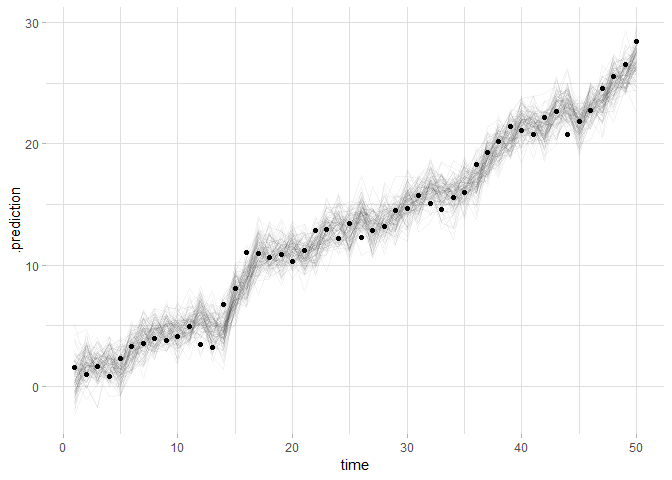
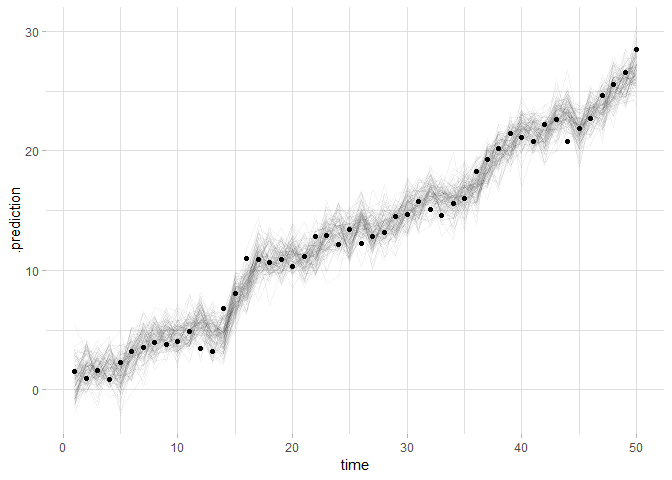
add bsts to arima example

diff --git a/arima.md b/arima.md
@@ -1,5 +1,11 @@
-Uncertainty examples with ARIMA in brms
+Uncertainty examples with ARIMA in brms and bsts
 ================
+
+## Introduction
+
+This example shows some spaghetti plots and hypothetical outcome plots
+(HOPs) of uncertainty for time series models, first using the `brms`
+package then using the `bsts` package.
 
 ## Setup
 
@@ -10,6 +16,7 @@ library(rstan)
 library(modelr)
 library(tidybayes)
 library(brms)
+library(bsts)
 library(gganimate)
 
 theme_set(theme_light() + theme(
@@ -43,7 +50,9 @@ t_drift_df %>%
 
 ![](arima_files/figure-gfm/unnamed-chunk-2-1.png)<!-- -->
 
-## Model
+## Using `brms`
+
+### Model
 
 A simple autoregressive model in brms:
 
@@ -55,7 +64,7 @@ m <- brm(y ~ 1 + time, autocor = cor_ar(~ 1, p = 1), data = t_drift_df)
 
     ## Start sampling
 
-## Spaghetti plot
+### Spaghetti plot
 
 We’ll start with a spaghetti plot:
 
@@ -73,7 +82,7 @@ We can add forecasting:
 
 ``` r
 t_drift_df %>%
-  bind_rows(data_frame(time = (max(.$time) + 1):(max(.$time + 1) + 10))) %>%
+  bind_rows(data_frame(time = max(.$time + 1):max(.$time + 10))) %>%
   add_predicted_draws(m, n = 100) %>%
   ggplot(aes(x = time, y = .prediction)) +
   geom_line(aes(group = .draw), alpha = 1/20) +
@@ -98,7 +107,83 @@ p = t_drift_df %>%
   exit_recolor(color = "gray97") +
   enter_recolor(color = "gray97")
 
-animate(p, nframes = ndraws * 5, fps = 10, width = 600, height = 400, res = 100, type = "cairo")
+animate(p, nframes = ndraws * 5, fps = 10, width = 700, height = 432, res = 100, type = "cairo")
 ```
 
 ![](arima_files/figure-gfm/unnamed-chunk-6-1.gif)<!-- -->
+
+## Using `bsts`
+
+Now let’s try with the `bsts` (Bayesian structural time series)
+package.
+
+### Model
+
+``` r
+m2 = with(t_drift_df, bsts(y, state.specification = AddLocalLinearTrend(list(), y), niter = 5000))
+```
+
+    ## =-=-=-=-= Iteration 0 Tue Jan 08 00:20:11 2019
+    ##  =-=-=-=-=
+    ## =-=-=-=-= Iteration 500 Tue Jan 08 00:20:11 2019
+    ##  =-=-=-=-=
+    ## =-=-=-=-= Iteration 1000 Tue Jan 08 00:20:11 2019
+    ##  =-=-=-=-=
+    ## =-=-=-=-= Iteration 1500 Tue Jan 08 00:20:11 2019
+    ##  =-=-=-=-=
+    ## =-=-=-=-= Iteration 2000 Tue Jan 08 00:20:12 2019
+    ##  =-=-=-=-=
+    ## =-=-=-=-= Iteration 2500 Tue Jan 08 00:20:12 2019
+    ##  =-=-=-=-=
+    ## =-=-=-=-= Iteration 3000 Tue Jan 08 00:20:12 2019
+    ##  =-=-=-=-=
+    ## =-=-=-=-= Iteration 3500 Tue Jan 08 00:20:12 2019
+    ##  =-=-=-=-=
+    ## =-=-=-=-= Iteration 4000 Tue Jan 08 00:20:12 2019
+    ##  =-=-=-=-=
+    ## =-=-=-=-= Iteration 4500 Tue Jan 08 00:20:12 2019
+    ##  =-=-=-=-=
+
+### Spaghetti plot
+
+And the plot as before. This time we just show the forecast, as that is
+easier. This also shows how to use `add_draws` and `sample_draws` to
+replace the functionality of `add_predicted_draws` when you are working
+with a package that `tidybayes` has not yet implemented support for
+`add_predicted_draws` (these are in the dev version of `tidybayes` only
+as of this writing).
+
+``` r
+horizon = 10
+
+data_frame(time = max(t_drift_df$time) + 1:horizon) %>%
+  add_draws(predict(m2, horizon = horizon)$distribution) %>%
+  sample_draws(100) %>%
+  ggplot(aes(x = time, y = y)) +
+  geom_line(aes(y = .value, group = .draw), alpha = 1/20) +
+  geom_line(data = t_drift_df, color = "gray50") +
+  geom_point(data = t_drift_df)
+```
+
+![](arima_files/figure-gfm/unnamed-chunk-8-1.png)<!-- -->
+
+``` r
+horizon = 10
+ndraws = 100
+
+p = data_frame(time = max(t_drift_df$time) + 1:horizon) %>%
+  add_draws(predict(m2, horizon = horizon)$distribution) %>%
+  sample_draws(ndraws) %>%
+  ggplot(aes(x = time, y = y)) +
+  geom_line(aes(y = .value, group = .draw), color = "red") +
+  geom_line(data = t_drift_df, color = "gray50") +
+  geom_point(data = t_drift_df) +
+  transition_states(.draw, 1, 3) +
+  shadow_mark(future = TRUE, color = "gray50", alpha = 1/20) +
+  exit_recolor(color = "gray97") +
+  enter_recolor(color = "gray97")
+
+animate(p, nframes = ndraws * 5, fps = 10, width = 700, height = 432, res = 100, type = "cairo")
+```
+
+![](arima_files/figure-gfm/unnamed-chunk-9-1.gif)<!-- -->

diff --git a/README.md b/README.md
@@ -36,4 +36,9 @@ a stream-of-consciousness style. You have been warned.
     uncertainty), quantile dotplots, and density+interval (“half-eye”)
     plots.
 
+  - [arima](arima.md): visualizations of forecasts for a simple
+    autoregressive time series model. Includes spaghetti plots and HOPs,
+    plus demos the use of not-explicitly-supported packages with
+    `tidybayes` (in this case, `bsts`—Bayesian structural time series).
+
   - [mtcars](mtcars.md): Some spaghetti plots and HOPs with mtcars data
